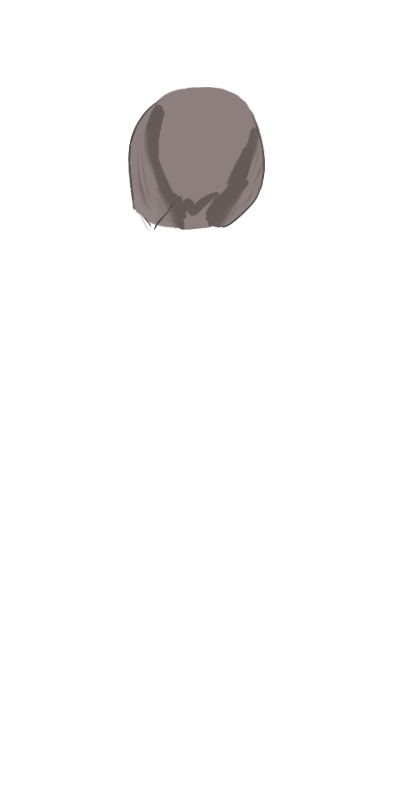
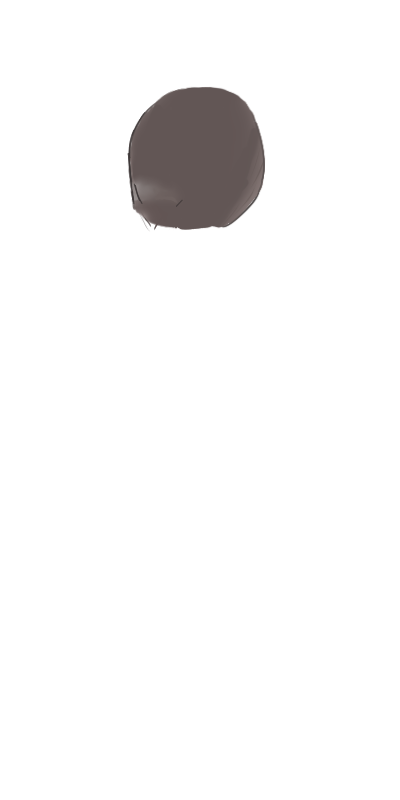
Added HairFront 63, 64 and HairBack 64. Modified HairBack 62

Changed region(s): [[0.3, 0.0938, 0.66, 0.3125], [0.57, 0.25, 0.6, 0.2812]]

diff --git a/BondageClub/Assets/Female3DCG/Female3DCG.js b/BondageClub/Assets/Female3DCG/Female3DCG.js
@@ -18654,6 +18654,32 @@ var AssetFemale3DCG = [
 					},
 				],
 			},
+			{
+				Name: "HairFront63",
+				Top: 30,
+				Layer: [
+					{
+						Name: "Main",
+						Priority: 52,
+					},
+					{
+						Name: "Back",
+						Priority: 51,
+					},
+				],
+			},
+			{
+				Name: "HairFront64",
+				Top: 30,
+				Layer: [
+					{
+						Name: "Main",
+					},
+					{
+						Name: "Clip",
+					},
+				],
+			},
 		],
 		Color: [
 			"#6a3628",
@@ -19275,6 +19301,11 @@ var AssetFemale3DCG = [
 				Name: "ScalyBackHair",
 				Left: 83,
 				Top: 4,
+			},
+			{
+				Name: "HairBack64",
+				Left: 51,
+				Top: 0,
 			},
 		],
 		Color: [
